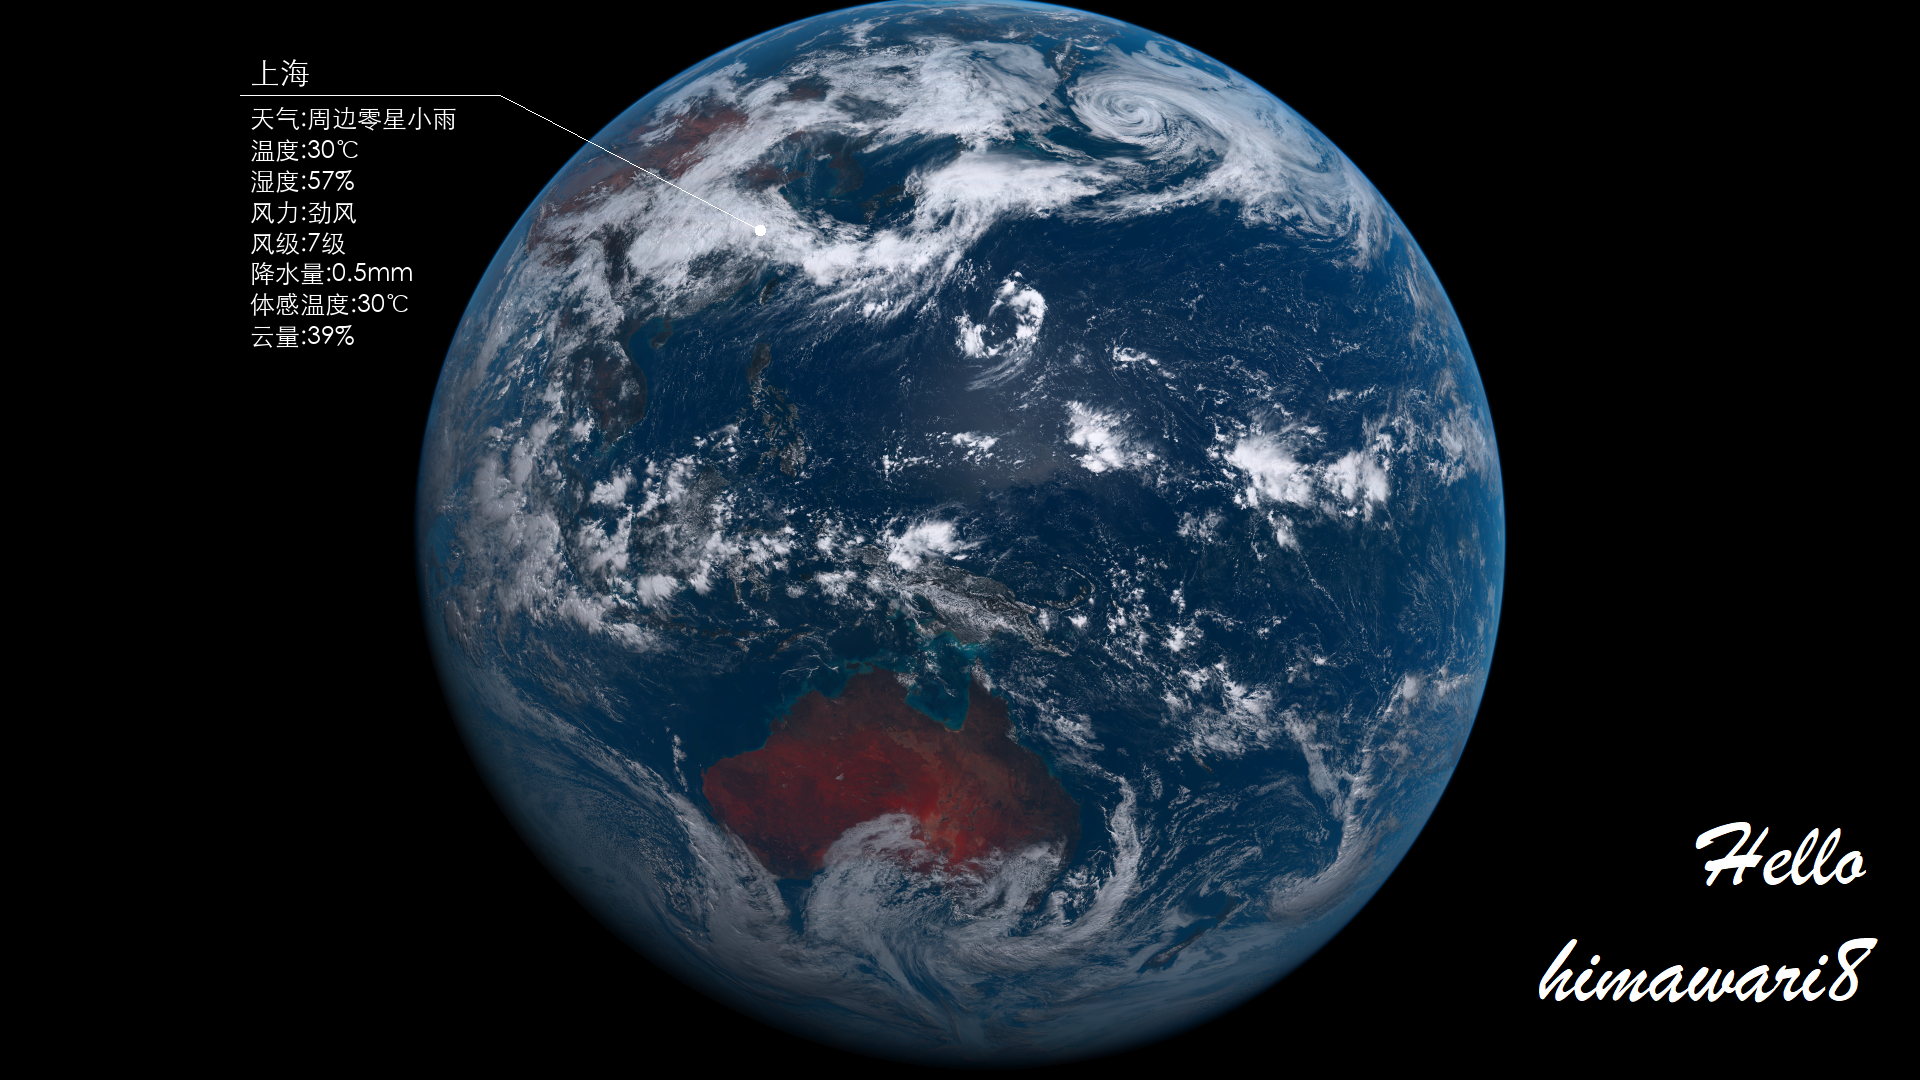
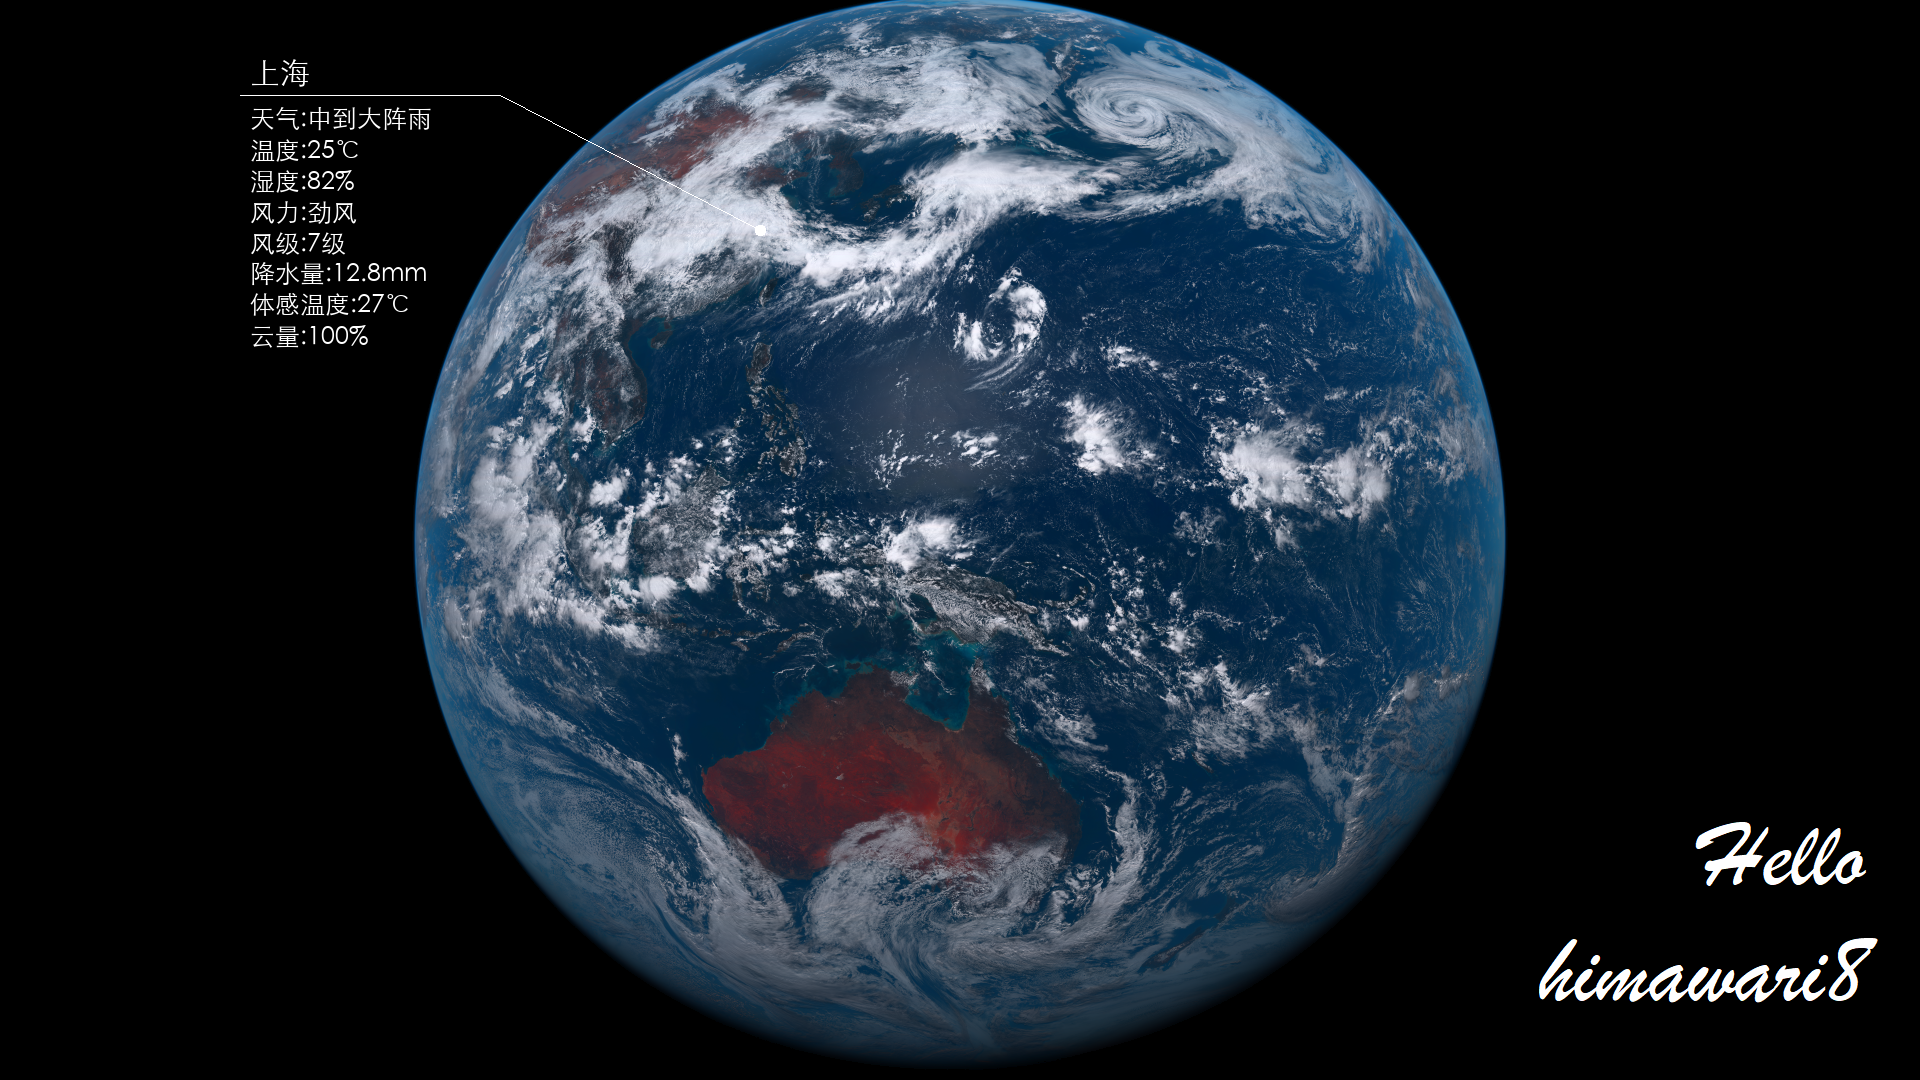
update

Changed region(s): [[0.1562, 0.0, 0.7812, 0.9778], [0.1562, 0.0917, 0.25, 0.1833], [0.1562, 0.3056, 0.1875, 0.3361]]

diff --git a/baidu_weather.py b/baidu_weather.py
@@ -1,0 +1,36 @@
+import requests
+import codecs
+import os
+from bs4 import BeautifulSoup
+import random
+
+from PIL import Image,ImageDraw,ImageFont
+import urllib.request
+import urllib.parse
+
+
+def get_weather(city):
+	user_agent = [
+		"Mozilla/5.0 (Macintosh; Intel Mac OS X 10_7_0) AppleWebKit/535.11 (KHTML, like Gecko) Chrome/17.0.963.56 Safari/535.11",
+		]
+	headers = {'User-Agent': random.choice(user_agent)}
+
+	label=["1","2","天气","温度","湿度","风力","风级","降水量","体感温度","云量"]
+	
+	
+	# 拼接url
+	url = "http://www.baidu.com/s?wd=" + urllib.parse.quote("上海"+'天气')
+	print(url)
+	# 请求读取
+	page_source = requests.get(url,headers=headers)
+	print(page_source)
+	soup = BeautifulSoup(page_source.text, 'html.parser')
+	weather_list = soup.select('div[class="mcon noi"] table')
+	print(weather_list)
+	
+	return str
+		
+	
+	
+if __name__ == '__main__':
+	get_weather("shanghai")

diff --git a/weather.py b/weather.py
@@ -34,18 +34,12 @@ def get_weather(city):
 		td_list= tr.select('td')
 		th_list=tr.select('th')
 		str=""
-		#for th in th_list:
-		#	str+=th.getText()+'\n'
-		#print(td_list)
-		#for td in td_list:
-		#	str += label[i]+":"
-		#	str += td.getText()+"\n"
-		#	i+=1
+
 		for i in range(2,10):
 			str += label[i]+":"
 			str += td_list[i].getText()+"\n"
 	
-		return str
+	return str
 		
 def draw_weather(city,img_save_path,new_img_save_path):
 	weather = get_weather(city)
@@ -66,4 +60,4 @@ def draw_weather(city,img_save_path,new_img_save_path):
 	
 	
 if __name__ == '__main__':
-	draw_weather()
+	draw_weather("shanghai",".",".")
